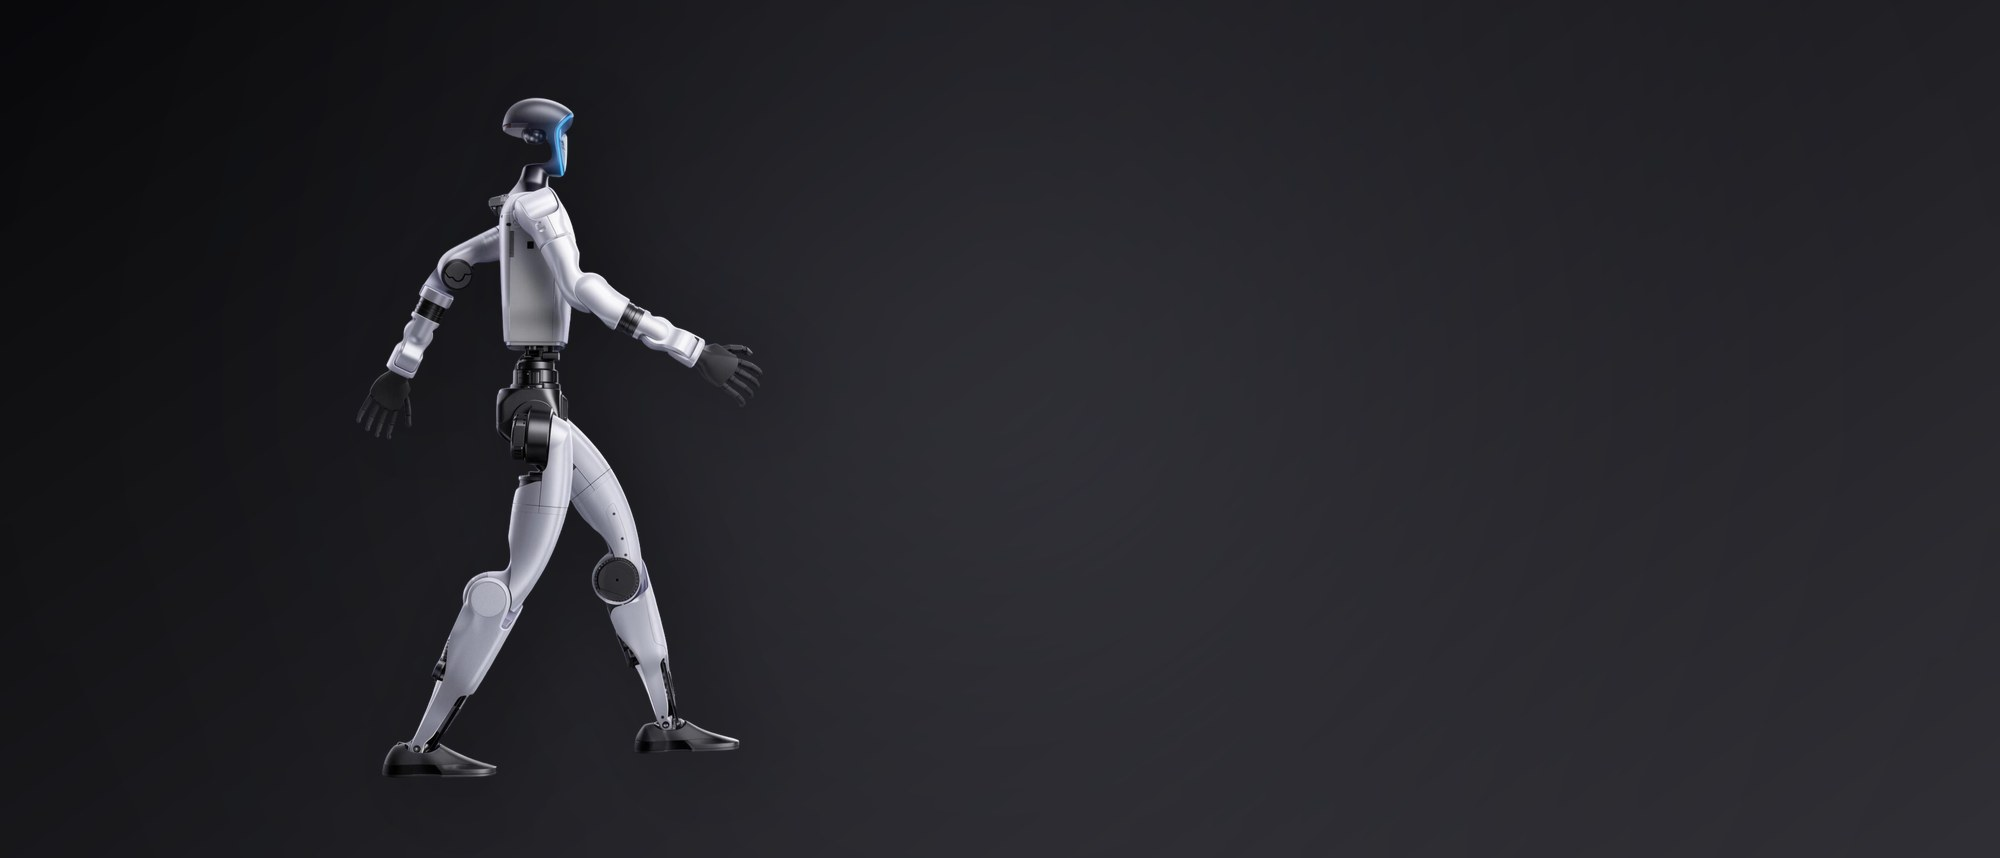
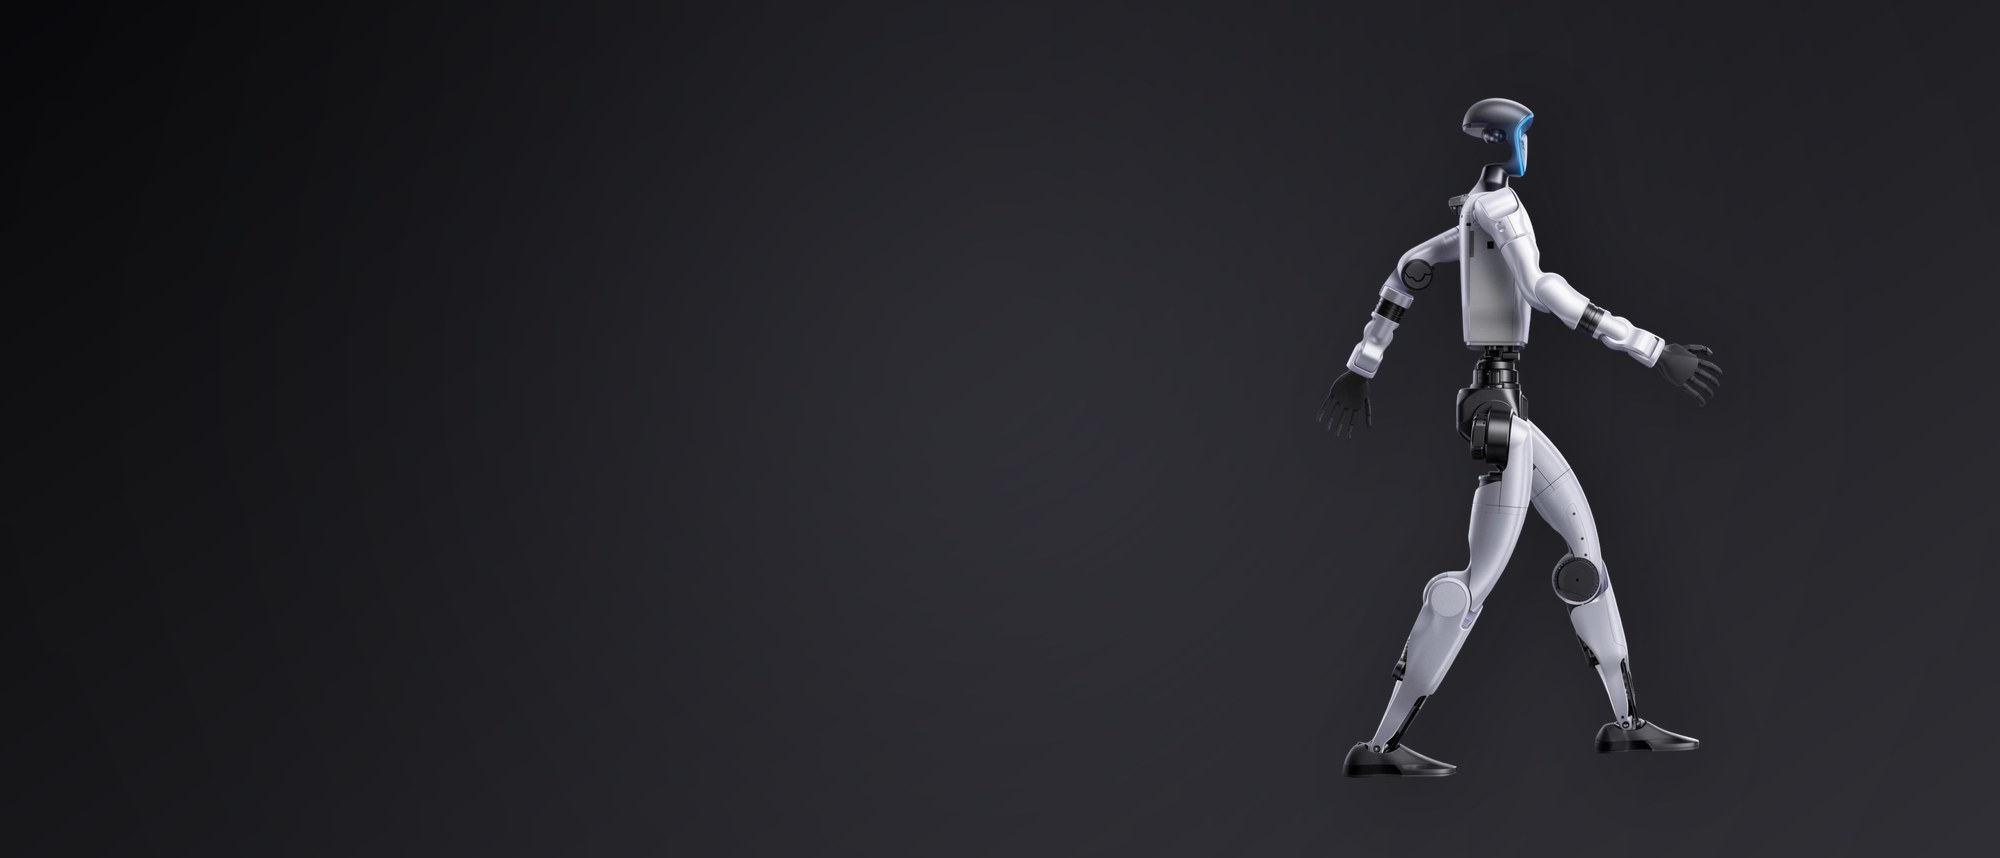
Add a photo rail of the real robot to the home and robot pages
Everything on the site so far was a render or the 3D stage. Eight
photographs of the actual machine now run as a snap rail under the
use cases on the home page and under the specs on each robot page.

The captions stay on what the pictures show (workshop, service rig,
walking tests, an expo floor) and claim no Monaco event and no client,
because none of these were shot at one.

tools/import_photos.py centre-crops the originals to 3:4 and caps them
at 1200px, so the cards in the rail are one shape.

Claude-Session: https://claude.ai/code/session_01L6V7Gp5CsYeoiXVtkubUh5

Changed region(s): [[0.651, 0.1212, 0.868, 0.9091], [0.186, 0.0909, 0.372, 0.9091]]

diff --git a/src/styles.css b/src/styles.css
@@ -238,6 +238,8 @@ body.is-loading{overflow:hidden}
 .band-copy{position:absolute;left:0;right:0;bottom:0;z-index:1;padding:clamp(24px,4vw,56px);color:#fff;background:linear-gradient(180deg,rgba(0,0,0,0),rgba(0,0,0,.7))}
 .band-copy h3{font-size:clamp(26px,3.2vw,44px);letter-spacing:-.03em;line-height:1.05;max-width:640px}
 .band-copy p{margin-top:12px;color:rgba(255,255,255,.8);max-width:560px}
+.band-copy .link{color:#fff}
+.band-copy .link::after{color:#fff}
 @media (max-width:700px){.band{aspect-ratio:4/5}}
 
 /* ---------- gallery: real photos ---------- */

diff --git a/tools/import_photos.py b/tools/import_photos.py
@@ -1,0 +1,50 @@
+#!/usr/bin/env python3
+"""Bring real photographs of the robot into photos/, cropped to one ratio.
+
+    python3 tools/import_photos.py <folder-with-originals>
+
+The originals arrive at wildly different sizes, so every card in the rail would otherwise be a different
+shape. Each photo is centre-cropped to 3:4 and capped at 1200 px wide, which is as much as a card ever
+shows. Names are given by NAMES below, in the order the files sort.
+"""
+import pathlib
+import sys
+
+from PIL import Image, ImageOps
+
+ROOT = pathlib.Path(__file__).resolve().parents[1]
+OUT = ROOT / "photos"
+SRC = pathlib.Path(sys.argv[1])
+
+RATIO = 3 / 4          # the rail shows portrait cards
+MAX_W = 1200
+
+NAMES = [
+    "real-internals",     # the robot opened up on the bench
+    "real-lab",           # sitting in the workshop
+    "real-demo-hand",     # a visitor reaching for its hand
+    "real-expo-floor",    # walking an exhibition floor
+    "real-audience",      # working a crowd
+    "real-testing",       # walking test indoors
+    "real-rig",           # on the service rig
+    "real-venue",         # indoors at a venue
+]
+
+files = sorted(p for p in SRC.iterdir() if p.suffix.lower() in (".jpg", ".jpeg", ".png") and not p.name.startswith("."))
+if len(files) != len(NAMES):
+    raise SystemExit(f"expected {len(NAMES)} photos, found {len(files)}: rename NAMES to match")
+
+for name, f in zip(NAMES, files):
+    im = ImageOps.exif_transpose(Image.open(f)).convert("RGB")
+    w, h = im.size
+    if w / h > RATIO:                       # too wide: trim the sides
+        nw = int(h * RATIO)
+        im = im.crop(((w - nw) // 2, 0, (w - nw) // 2 + nw, h))
+    else:                                   # too tall: trim from the bottom, the subject sits high
+        nh = int(w / RATIO)
+        top = min(int(h * 0.06), h - nh)
+        im = im.crop((0, top, w, top + nh))
+    if im.width > MAX_W:
+        im = im.resize((MAX_W, round(im.height * MAX_W / im.width)), Image.LANCZOS)
+    im.save(OUT / f"{name}.jpg", quality=84, optimize=True, progressive=True)
+    print(f"{name}.jpg  {im.size[0]}x{im.size[1]}  <- {f.name}")

diff --git a/build.py b/build.py
@@ -283,6 +283,24 @@ def dir_tiles(items):
         for i, x in enumerate(items)) + "</div>"
 
 
+def gallery_strip(bg="tilebg", start=0, count=None):
+    """A rail of real photographs of the robot. Honest captions: workshop, test and expo, never a client claim."""
+    g = T["ui"].get("gallery")
+    if not g:
+        return ""
+    items = g["items"][start:] + g["items"][:start]
+    items = items[:count] if count else items
+    cards = "".join(
+        f'<figure class="card gal-card reveal">{photo(i["file"], i["alt"], "")}'
+        f'<figcaption class="card-copy"><p class="t-small">{e(i["caption"])}</p></figcaption></figure>'
+        for i in items)
+    return f"""
+<section class="section {bg}" id="photos"><div class="wrap">
+<div class="section-head reveal"><h2 class="t-h2">{e(g['h2'])}</h2><p class="t-lead">{e(g['lead'])}</p></div>
+</div><div class="gallery"><div class="rail">{cards}</div></div></section>
+"""
+
+
 def faq_section(faq, h2=None, bg=""):
     rows = "".join(f"<details><summary>{e(f['q'])}</summary><p>{e(f['a'])}</p></details>" for f in faq)
     u = T["ui"]
@@ -428,6 +446,8 @@ def build_home():
 <div class="actions reveal" style="margin-top:32px"><a class="link" href="{lp('/use-cases')}">{e(d['uses']['cta'])}</a></div>
 </div></section>
 
+{gallery_strip()}
+
 <section class="section"><div class="wrap">
 <div class="section-head reveal"><h2 class="t-h2">{e(d['how']['h2'])}</h2></div>
 <div class="steps s4">{steps(d['how']['steps'])}</div>
@@ -479,6 +499,8 @@ def build_robot(r):
 </div></section>
 
 <section class="section" style="padding-top:0"><div class="wrap"><div class="stats reveal">{specs}</div></div></section>
+
+{gallery_strip(start=0 if r['priceKind'] == 'dev' else 2)}
 
 <section class="section dark" id="branding" style="padding-top:clamp(48px,6vw,88px)"><div class="wrap">
 <div class="section-head reveal center"><h2 class="t-h2">{e(T['ui']['branding']['h2'])}</h2><p class="t-lead">{e(T['ui']['branding']['p'])}</p></div>

diff --git a/tools/make_images.py b/tools/make_images.py
@@ -71,7 +71,7 @@ JOBS = [
     ("montari-hero", "montari-wave-4k", "dark", P, 0.9, 0, 0),
     ("nova-hero", "montari-4k", "light", P, 0.92, 0, 0),
     ("oryx-hero", "oryx-side-4k", "dark", P, 0.55, 0, -0.12),
-    ("software", "montari-walk-4k", "dark", W, 0.86, -0.22, 0),
+    ("software", "montari-walk-4k", "dark", W, 0.86, 0.26, 0),
     ("brand-activations", "montari-wave-4k", "dark", P, 0.9, 0, 0),
     ("product-launches", "montari-4k", "light", P, 0.92, 0, 0),
     ("corporate-events", "montari-wave-4k", "light", P, 0.88, 0, 0),
